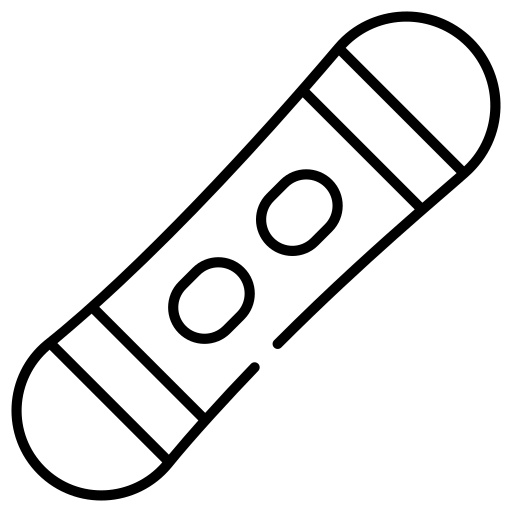
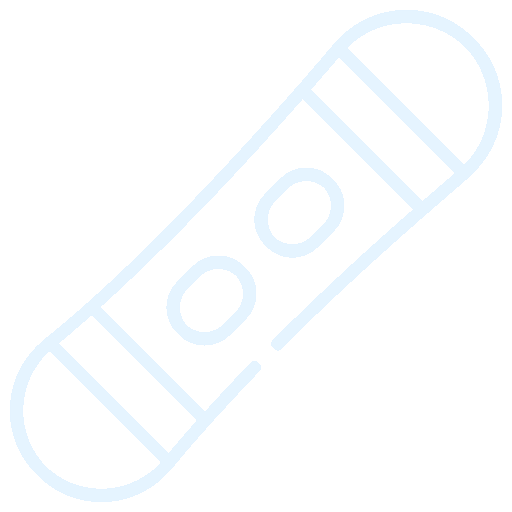
complete itineraryDetail-courseList page

Changed region(s): [[0.0, 0.0, 1.0, 1.0], [0.3125, 0.5, 0.5, 0.6875], [0.5, 0.3125, 0.6875, 0.5]]

diff --git a/pages/itineraryDetail-courseList.html b/pages/itineraryDetail-courseList.html
@@ -67,7 +67,7 @@
       </ul>
       <ul class="m-0 list-unstyled fs-8 fs-lg-6">
         <li>
-          <div class="p-3 p-lg-6 bg-primary-400 mb-11 position-relative">
+          <div class="deco-itineraryDetail-courseList-content  p-3 p-lg-6 bg-primary-400 mb-11 position-relative">
             <span class="deco-itineraryDetail-courseList d-none d-lg-block text-light text-center fw-bold">
               DAY<br>01
             </span>
@@ -98,7 +98,7 @@
           </div>
         </li>
         <li>
-          <div class="p-3 p-lg-6 bg-primary-400 mb-11 position-relative">
+          <div class="deco-itineraryDetail-courseList-content  p-3 p-lg-6 bg-primary-400 mb-11 position-relative">
             <span class="deco-itineraryDetail-courseList d-none d-lg-block text-light text-center fw-bold">
               DAY<br>02
             </span>
@@ -133,7 +133,7 @@
           </div>
         </li>
         <li>
-          <div class="p-3 p-lg-6 bg-primary-400 mb-11 position-relative">
+          <div class="deco-itineraryDetail-courseList-content  p-3 p-lg-6 bg-primary-400 mb-11 position-relative">
             <span class="deco-itineraryDetail-courseList d-none d-lg-block text-light text-center fw-bold">
               DAY<br>03
             </span>

diff --git a/assets/scss/pages/_itineraryDetail-courseList.scss b/assets/scss/pages/_itineraryDetail-courseList.scss
@@ -1,6 +1,7 @@
 .deco-itineraryDetail-courseList-sm {
   padding: 12px 36px 12px 16px;
   display: inline-block;
+  text-wrap: nowrap;
   background-image: url(../img/deco/deco-itineraryDetail-content-sm.png);
   background-size: 131px 41px;
   background-position: center;
@@ -25,4 +26,11 @@
   @include media-breakpoint-up(lg) {
     margin-left: 200px;
   }
+}
+
+.deco-itineraryDetail-courseList-content{
+  background-image: url(../img/deco/deco-itineraryCourseList.png);
+  background-size: 300px 300px;
+  background-position: right bottom;
+  background-repeat: no-repeat;
 }
